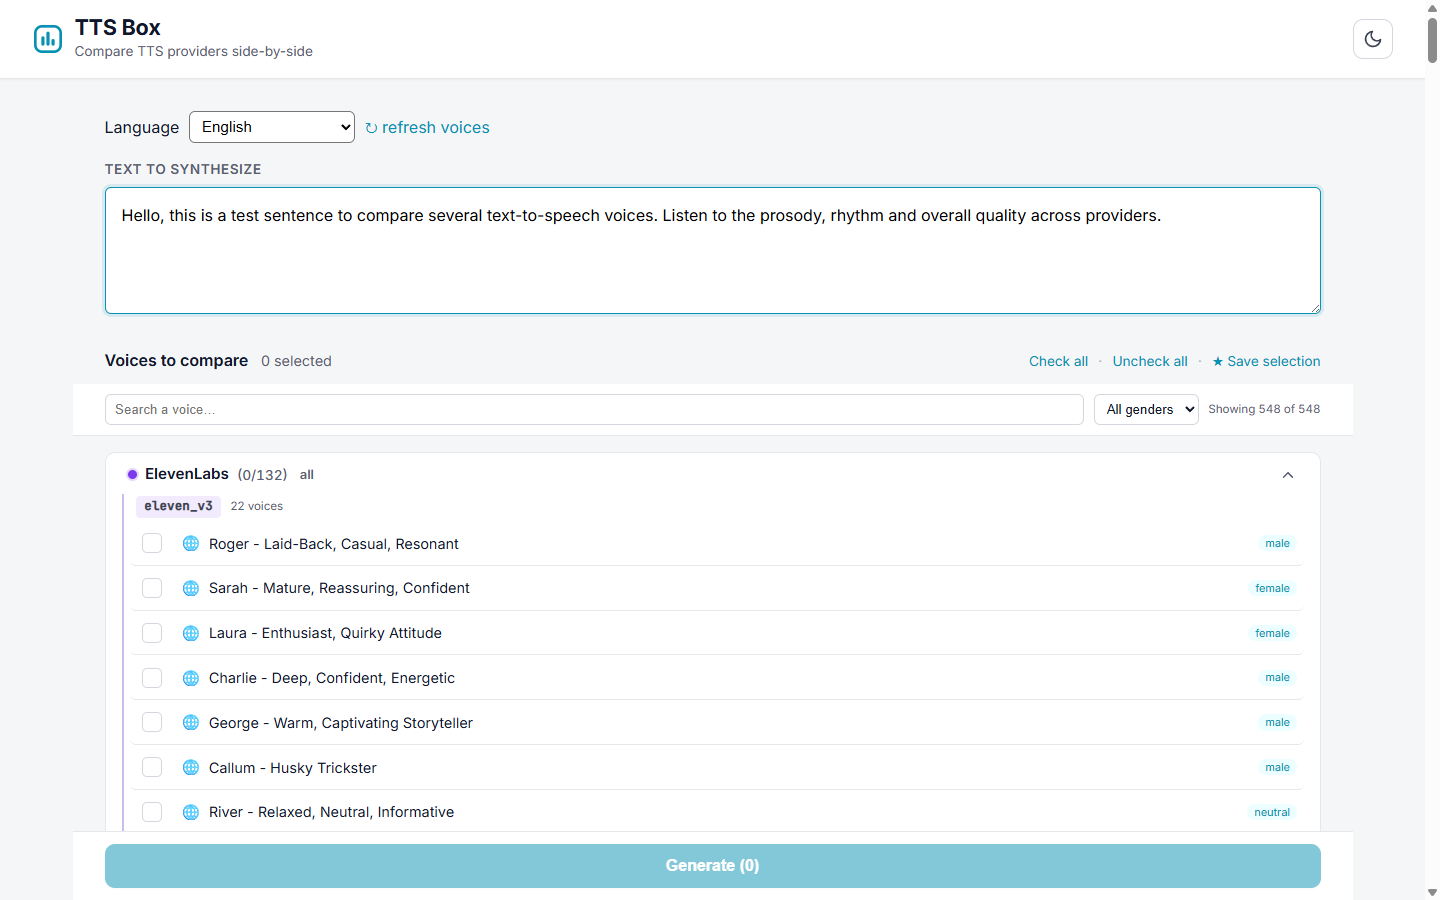
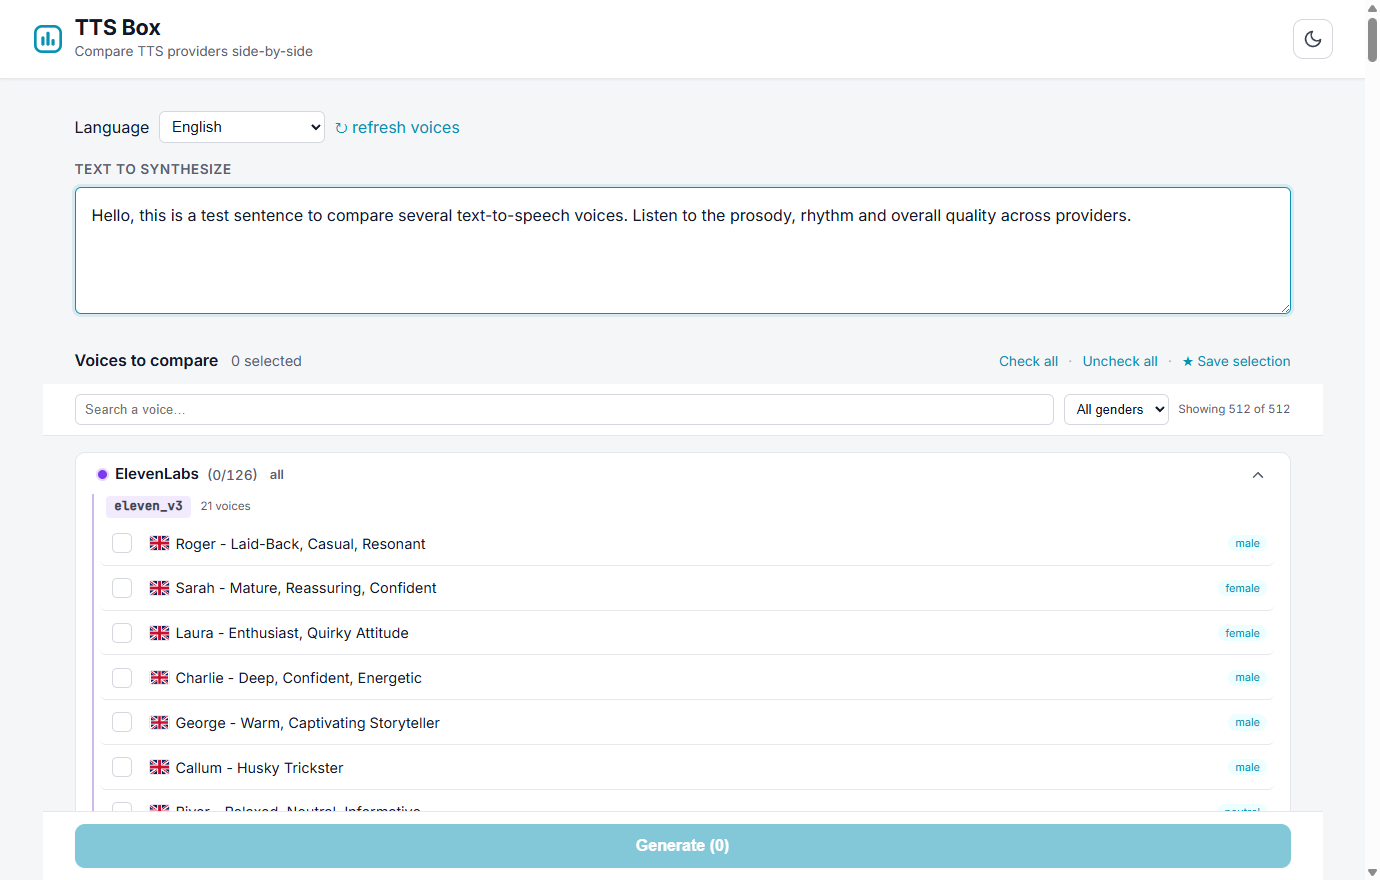
docs: top-tier README — badges, features, prerequisites, light+dark hero, accurate language model
- Added a badge row (CI, MIT, Python 3.12+, Ruff, no-build) and a scannable Features section with the redesign highlights (light/dark, mobile-first, a11y, flags, cost, streaming).
- Fixed the stale 'Language filtering' description (the old 'multilingual tag' was removed): now accurately documents that a voice with a declared language only appears under that language, generalists show a globe.
- Added an explicit Prerequisite (install uv) + a true copy-paste quick start (clone -> cp .env -> uv sync -> run).
- Refreshed the screenshot and added a dark-theme one, shown side by side.
- Updated 'Add a provider' to the current language model; added Development/How-it-works/Tech-stack/License sections.

diff --git a/README.md b/README.md
@@ -1,75 +1,102 @@
-# TTS Box
+# 🎙 TTS Box
 
-A local web app to compare text-to-speech providers **side-by-side** on the same text.
-Pick your language, browse **every voice** each configured provider offers (filtered to
-that language), select the ones you want, and listen to the results as they stream in.
+> Compare text-to-speech voices from every major provider — side by side, on the same text.
 
-**Providers:** ElevenLabs · OpenAI · Azure Speech · Cartesia · Murf · OpenRouter
-(Gemini, gpt-4o-mini, Voxtral, Kokoro, and more).
+[![CI](https://github.com/AcudoDev/tts-box/actions/workflows/ci.yml/badge.svg)](https://github.com/AcudoDev/tts-box/actions/workflows/ci.yml)
+[![License: MIT](https://img.shields.io/badge/license-MIT-blue.svg)](LICENSE)
+![Python 3.12+](https://img.shields.io/badge/python-3.12%2B-blue.svg)
+[![Ruff](https://img.shields.io/endpoint?url=https://raw.githubusercontent.com/astral-sh/ruff/main/assets/badge/v2.json)](https://github.com/astral-sh/ruff)
+![No build step](https://img.shields.io/badge/build-none-success.svg)
 
-![TTS Box — pick a language, browse every voice, compare side-by-side](docs/screenshot.png)
+Pick a language, browse **every voice** your configured providers expose, tick a few, type some text, and hear them render side by side. Light & dark, mobile-first, zero build step.
 
-## How it works
+<p align="center">
+  <img src="docs/screenshot.png" alt="TTS Box — light theme" width="49%" />
+  <img src="docs/screenshot-dark.png" alt="TTS Box — dark theme" width="49%" />
+</p>
 
-- **Dynamic voice discovery** — voices are fetched live from each provider's API
-  (cached for 1 h), not hard-coded. Hit **↻ refresh voices** to re-fetch.
-- **Language filtering** — choose a target language; provider-localized voices
-  (Azure, Cartesia, Murf) are filtered to it, while multilingual voices
-  (ElevenLabs, OpenAI, Gemini…) are always shown and tagged `multilingual`.
-- **No accounts, no database, ephemeral audio** — a new generation purges the
-  previous one; closing the server clears everything.
+**Providers:** ElevenLabs · OpenAI · Azure Speech · Cartesia · Murf · OpenRouter (Gemini, gpt-4o-mini, Voxtral, Kokoro, and more) — hundreds of voices in one place.
 
-## Setup
+---
+
+## ✨ Features
+
+- 🔍 **Live voice discovery** — every voice is fetched from each provider's API at runtime (cached 1 h), never hard-coded. Add a voice to your account and it just appears. Hit **↻ refresh voices** to re-fetch.
+- 🌍 **Language-aware** — choose a target language and the catalog narrows to it: voices native to that language show their **flag**, while multilingual generalists (OpenAI, Gemini…) show a 🌐 and stay available for any language.
+- ⚡ **Streaming comparison** — results stream in as each provider responds; play and download each clip (`↓ DL`).
+- 💸 **Cost estimate** per clip, so you compare price as well as quality.
+- 🎨 **Light & dark themes** — follows your OS, with a manual toggle, built on a tokenized design system.
+- 📱 **Mobile-first & responsive** — designed for a phone first; sticky filter bar and a sticky **Generate** button always within thumb's reach.
+- ♿ **Accessible** — keyboard navigation, screen-reader live regions, visible focus rings, `prefers-reduced-motion`.
+- 🧩 **One-file providers** — add a TTS provider in a single Python file; it's auto-discovered.
+- 🔒 **Local & private** — no accounts, no database, audio is ephemeral, your API keys never leave your `.env`.
+- 🛠 **Zero build step** — FastAPI + HTMX + vanilla CSS. No bundler, no `npm`, no framework.
+
+## 🚀 Quick start
+
+**Prerequisite:** [**uv**](https://docs.astral.sh/uv/getting-started/installation/) — it installs and manages Python 3.12+ for you.
 
 ```bash
-cp .env.example .env       # then fill in the keys for the providers you want
-uv sync
+git clone https://github.com/AcudoDev/tts-box.git
+cd tts-box
+cp .env.example .env          # add at least one provider key (see below)
+uv sync                       # creates the venv + installs everything
+uv run uvicorn app.main:app
 ```
 
-A missing key simply hides that provider — no error. You need at least one key.
+Open **<http://127.0.0.1:8000>**. A missing key simply hides that provider — no error — so you only need **one** key to start.
+
+## 🔑 API keys
+
+Put the keys for the providers you want in `.env` (copy from `.env.example`):
 
 | Provider | Env var(s) | Get a key |
 |----------|-----------|-----------|
-| ElevenLabs | `ELEVENLABS_API_KEY` | https://elevenlabs.io |
-| OpenAI | `OPENAI_API_KEY` | https://platform.openai.com |
-| Azure Speech | `AZURE_SPEECH_KEY`, `AZURE_SPEECH_REGION` | https://portal.azure.com |
-| Cartesia | `CARTESIA_API_KEY` | https://cartesia.ai |
-| Murf | `MURF_API_KEY` | https://murf.ai |
-| OpenRouter | `OPENROUTER_API_KEY` | https://openrouter.ai |
+| ElevenLabs | `ELEVENLABS_API_KEY` | <https://elevenlabs.io> |
+| OpenAI | `OPENAI_API_KEY` | <https://platform.openai.com> |
+| Azure Speech | `AZURE_SPEECH_KEY` + `AZURE_SPEECH_REGION` | <https://portal.azure.com> |
+| Cartesia | `CARTESIA_API_KEY` | <https://cartesia.ai> |
+| Murf | `MURF_API_KEY` | <https://murf.ai> |
+| OpenRouter | `OPENROUTER_API_KEY` | <https://openrouter.ai> |
 
-## Run
+## 🎙 Usage
 
-```bash
-uv run uvicorn app.main:app --reload
-```
+1. **Pick a language.** The catalog narrows to voices that speak it.
+2. **Search / filter** by name or gender, expand a provider, and tick the voices to compare. **★ Save selection** remembers your picks in the browser.
+3. **Type your text** and click **Generate** (or press `Ctrl+Enter`).
+4. **Listen.** Cards stream in as each provider responds — play, compare latency & cost, and **↓ DL** to download.
 
-Open <http://127.0.0.1:8000>.
+> Audio is **ephemeral**: a new generation replaces the previous one, and stopping the server clears everything.
 
-1. Choose a language. The voice list updates to show what can speak it.
-2. Search/filter, then check the voices to compare. **★ Save selection** stores your
-   picks in the browser for next time.
-3. Type your text and click **Generate** (or `Ctrl+Enter`).
-4. Cards stream in as each provider responds. **↓ DL** downloads the audio.
+## 🧩 Add a provider
 
-## Add a provider
+1. Create `app/providers/<name>.py` with a class extending `TTSProvider` (use `app/providers/elevenlabs.py` as a template). Implement `list_models`, `list_voices`, and `synthesize`. Give each voice a `language` (ISO 639-1) when it's tied to one, or leave it `None` for a language-agnostic voice.
+2. Add its API-key env var to `.env.example`.
+3. Restart the server — the provider is auto-discovered. No other wiring needed.
 
-1. Create `app/providers/<name>.py` with a class extending `TTSProvider`
-   (see `app/providers/elevenlabs.py`). Implement `list_models`, `list_voices`,
-   and `synthesize`. Mark voices `multilingual=True` if they aren't tied to a locale.
-2. Add its env var to `.env.example`.
-3. Restart `uvicorn` — the provider is auto-discovered.
-
-## Tests
+## 🧪 Development
 
 ```bash
-uv run pytest          # unit tests (httpx mocked via respx)
+uv run pytest          # unit tests (HTTP mocked via respx — no network, no keys needed)
 uv run ruff check .    # lint
 ```
 
-## Stack
+CI runs both on every push and pull request (`.github/workflows/ci.yml`).
 
-FastAPI · HTMX · Jinja2 · httpx · pytest · uv. No JS build step.
+## 🛠 How it works
 
-## Credits
+- **Pull, not push.** A small catalog layer (`app/voice_catalog.py`) calls each provider's `list_voices()` in parallel, caches the result (1 h TTL), and filters it by the selected language. There's no hand-maintained list of voices.
+- **One rule for language.** A voice with a declared language appears only under that language and shows its flag; a voice with no language is a generalist shown under every language with a 🌐.
+- **Server-rendered, no SPA.** Routes return HTML fragments swapped in by HTMX; theming and small interactions are native CSS custom properties + a few lines of vanilla JS.
 
-Country flags by [flag-icons](https://github.com/lipis/flag-icons) (MIT).
+## 📦 Tech stack
+
+[FastAPI](https://fastapi.tiangolo.com/) · [HTMX](https://htmx.org/) · [Jinja2](https://jinja.palletsprojects.com/) · [httpx](https://www.python-httpx.org/) · [pytest](https://docs.pytest.org/) + [respx](https://lundberg.github.io/respx/) · [Ruff](https://docs.astral.sh/ruff/) · [uv](https://docs.astral.sh/uv/). No JavaScript build step.
+
+## 🙏 Credits
+
+Country flags by [flag-icons](https://github.com/lipis/flag-icons) (MIT). Fonts: [Inter](https://rsms.me/inter/) & [JetBrains Mono](https://www.jetbrains.com/lp/mono/).
+
+## 📄 License
+
+[MIT](LICENSE) © AcudoDev
